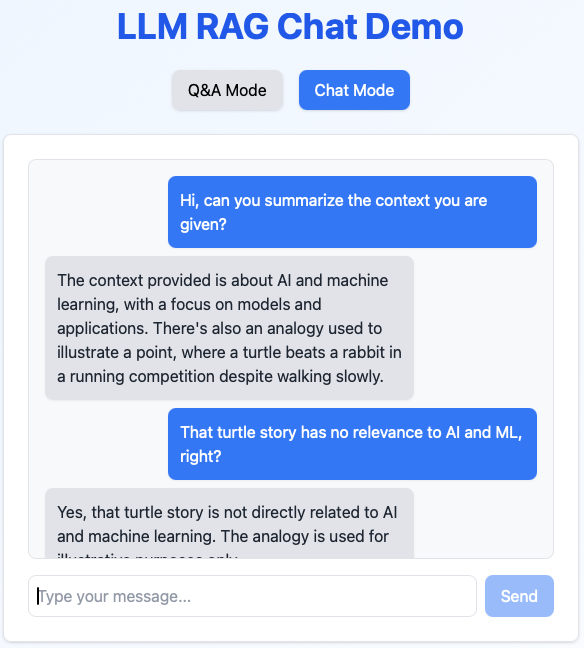
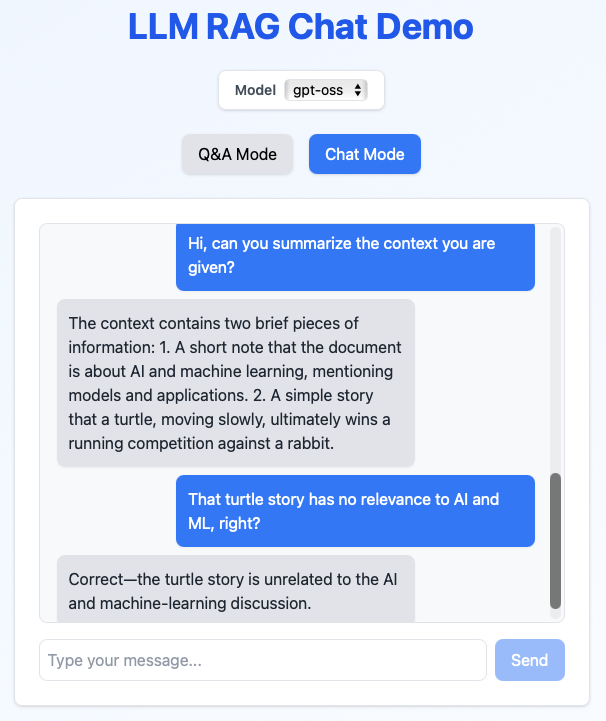
add model section UI (mistral, gpt-oss)

diff --git a/frontend/src/App.tsx b/frontend/src/App.tsx
@@ -1,13 +1,32 @@
 import { useState } from 'react';
+import { DEFAULT_MODEL, MODEL_OPTIONS, type ModelId } from './modelOptions';
 import AskComponent from './AskComponent';
 import ChatComponent from './ChatComponent';
 
 export default function App() {
   const [mode, setMode] = useState<'ask' | 'chat'>('ask');
+  const [model, setModel] = useState<ModelId>(DEFAULT_MODEL);
 
   return (
     <div className="min-h-screen flex flex-col items-center bg-gradient-to-br from-blue-50 to-white p-6">
       <h1 className="text-4xl font-bold mb-6 text-blue-600">LLM RAG Chat Demo</h1>
+
+      <div className="flex gap-4 mb-6">
+        <label className="flex items-center gap-2 bg-white border rounded-lg shadow px-4 py-2">
+          <span className="text-sm font-semibold text-gray-600">Model</span>
+          <select
+            className="border rounded px-2 py-1 text-sm focus:outline-none focus:ring-2 focus:ring-blue-300"
+            value={model}
+            onChange={(event) => setModel(event.target.value as ModelId)}
+          >
+            {MODEL_OPTIONS.map((option) => (
+              <option key={option} value={option}>
+                {option}
+              </option>
+            ))}
+          </select>
+        </label>
+      </div>
 
       <div className="flex gap-4 mb-6">
         <button
@@ -24,8 +43,8 @@ export default function App() {
         </button>
       </div>
 
-      {mode === 'ask' && <AskComponent />}
-      {mode === 'chat' && <ChatComponent />}
+      {mode === 'ask' && <AskComponent model={model} />}
+      {mode === 'chat' && <ChatComponent model={model} />}
     </div>
   );
 }

diff --git a/frontend/src/ChatComponent.tsx b/frontend/src/ChatComponent.tsx
@@ -1,5 +1,6 @@
 import { useState, useRef, useEffect } from 'react';
 import axios from 'axios';
+import type { ModelId } from './modelOptions';
 
 type Message = {
   role: 'user' | 'assistant';
@@ -11,7 +12,11 @@ const createMessage = (role: 'user' | 'assistant', content: string): Message => 
   content
 });
 
-export default function ChatComponent() {
+type ChatProps = {
+  model: ModelId;
+};
+
+export default function ChatComponent({ model }: ChatProps) {
   const [messages, setMessages] = useState<Message[]>([]);
   const [input, setInput] = useState('');
   const [loading, setLoading] = useState(false);
@@ -33,7 +38,7 @@ export default function ChatComponent() {
     setLoading(true);
 
     try {
-      const res = await axios.post('http://localhost:8000/chat', { messages: newMessages });
+      const res = await axios.post('http://localhost:8000/chat', { messages: newMessages, model });
       setMessages([...newMessages, createMessage('assistant', res.data.answer)]);
     } catch {
       setMessages([...newMessages, createMessage('assistant', 'Error contacting backend.')]);

diff --git a/frontend/src/AskComponent.tsx b/frontend/src/AskComponent.tsx
@@ -1,7 +1,12 @@
 import { useState } from 'react';
 import axios from 'axios';
+import type { ModelId } from './modelOptions';
 
-export default function AskComponent() {
+type AskProps = {
+  model: ModelId;
+};
+
+export default function AskComponent({ model }: AskProps) {
   const [question, setQuestion] = useState('');
   const [answer, setAnswer] = useState('');
   const [loading, setLoading] = useState(false);
@@ -14,7 +19,7 @@ export default function AskComponent() {
     setAnswer('');
 
     try {
-      const res = await axios.post('http://localhost:8000/ask', { question });
+      const res = await axios.post('http://localhost:8000/ask', { question, model });
       setAnswer(res.data.answer);
     } catch {
       setAnswer('⚠ Error contacting backend.');

diff --git a/frontend/src/modelOptions.ts b/frontend/src/modelOptions.ts
@@ -1,0 +1,3 @@
+export type ModelId = 'mistral' | 'gpt-oss';
+export const MODEL_OPTIONS: ModelId[] = ['mistral', 'gpt-oss'];
+export const DEFAULT_MODEL: ModelId = 'mistral';

diff --git a/backend/ask_handler.py b/backend/ask_handler.py
@@ -44,25 +44,10 @@ NOTES:
 
 """
 
-import os
+from functools import lru_cache
 from langchain_ollama.llms import OllamaLLM
 from schemas import AskRequest
 from rag_index import rag_index
-
-
-# ----------------------------------------------------------------------------------------------------
-# Create the Ollama LLM
-# ----------------------------------------------------------------------------------------------------
-llm = OllamaLLM(model="mistral")
-
-
-# ----------------------------------------------------------------------------------------------------
-# Build the RAG query engine ONCE at startup
-# ----------------------------------------------------------------------------------------------------
-ask_engine = rag_index.as_query_engine(
-    llm=llm,
-    response_mode="compact",  # or "simple"
-)
 
 
 # ----------------------------------------------------------------------------------------------------
@@ -72,5 +57,26 @@ def process_ask(request: AskRequest) -> str:
     """
     Classic single-turn RAG: user asks one question, no history.
     """
+    ask_engine = _get_query_engine(request.model)
     response = ask_engine.query(request.question)
     return response.response
+
+
+# ----------------------------------------------------------------------------------------------------
+# LRU cache to reuse LLM
+# ----------------------------------------------------------------------------------------------------
+@lru_cache(maxsize=2)
+def _get_llm(model_name: str) -> OllamaLLM:
+    return OllamaLLM(model=model_name)
+
+
+# ----------------------------------------------------------------------------------------------------
+# LRU cache to reuse query engine instances
+# ----------------------------------------------------------------------------------------------------
+@lru_cache(maxsize=2)
+def _get_query_engine(model_name: str):
+    llm = _get_llm(model_name)
+    return rag_index.as_query_engine(
+        llm=_get_llm(model_name),
+        response_mode="compact",
+    )

diff --git a/backend/chat_handler.py b/backend/chat_handler.py
@@ -1,3 +1,4 @@
+from functools import lru_cache
 from langchain_ollama.chat_models import ChatOllama
 from llama_index.core.chat_engine import ContextChatEngine
 from llama_index.core.chat_engine.types import ChatMessage
@@ -50,9 +51,30 @@ def process_chat(request: ChatRequest) -> str:
     # Convert messages to ChatMessage format
     messages_for_history = [ChatMessage(role=m.role, content=m.content) for m in request.messages]
 
+    # Retrieve ChatEngine instance (cached)
+    chat_engine = _get_chat_engine(request.model)
+
     # Call LlamaIndex ChatEngine
     response = chat_engine.chat(
         message=last_user_message,
         chat_history=[INSTRUCTION_MESSAGE, *messages_for_history],
     )
     return response.response
+
+
+# ----------------------------------------------------------------------------------------------------
+# LRU cache to reuse LLM
+# ----------------------------------------------------------------------------------------------------
+@lru_cache(maxsize=4)
+def _get_langchain_llm(model_name: str) -> LangChainLLM:
+    return LangChainLLM(ChatOllama(model=model_name, temperature=0.0))
+
+# ----------------------------------------------------------------------------------------------------
+# LRU cache to reuse chat engine instances
+# ----------------------------------------------------------------------------------------------------
+@lru_cache(maxsize=4)
+def _get_chat_engine(model_name: str) -> ContextChatEngine:
+    return ContextChatEngine.from_defaults(
+        retriever=rag_index.as_retriever(),
+        llm=_get_langchain_llm(model_name),
+    )

diff --git a/backend/schemas.py b/backend/schemas.py
@@ -1,9 +1,16 @@
+from enum import StrEnum
 from pydantic import BaseModel
-from typing import List
+
+
+class ModelId(StrEnum):
+    MISTRAL = "mistral"
+    GPT_OSS = "gpt-oss"
+    DEFAULT = "mistral"
 
 
 class AskRequest(BaseModel):
     question: str
+    model: ModelId = ModelId.DEFAULT
 
 
 class ChatMessage(BaseModel):
@@ -12,4 +19,5 @@ class ChatMessage(BaseModel):
 
 
 class ChatRequest(BaseModel):
-    messages: List[ChatMessage]
+    messages: list[ChatMessage]
+    model: ModelId = ModelId.DEFAULT

diff --git a/README.md b/README.md
@@ -1,10 +1,24 @@
 # LLM RAG Chat Demo
 
-A full-stack demo of Retrieval-Augmented Generation (RAG) chat powered by LlamaIndex, LangChain, FastAPI, and React (TypeScript).
+## Overview
+
+This project is a **full-stack Retrieval-Augmented Generation (RAG) chat demo** built to showcase how large language models can answer questions grounded in external knowledge.
+
+**Tech Stack:**
+
+* **Frontend:** React (TypeScript)
+* **Backend:** FastAPI (Python)
+* **LLM:** Models served locally via Ollama (Mistral, GPT-OSS)
+* **Embeddings:** Hugging Face transformer model via HuggingFaceEmbedding
+* **Vector Database:** LlamaIndex SimpleVectorStore (in-memory, managed through VectorStoreIndex)
+* **Frameworks:** LangChain, LlamaIndex
+
+**How it works:**
+The application ingests documents, converts them into vector embeddings, and stores them in a FAISS index. When a user asks a question, the system retrieves the most relevant text chunks and passes them — along with the query — to the Mistral model to generate accurate, context-aware responses.
 
 ![](images/chat-mode.png)
 
-This project demonstrates how to build a chatbot that retrieves relevant document context from a vector database and generates coherent answers using an LLM.
+This demo illustrates the core workflow behind modern RAG systems: **document retrieval + LLM reasoning**, wrapped in a simple web interface.
 
 ## Installation
 
@@ -56,7 +70,12 @@ Install mistral
 
 ```bash
 ollama pull mistral
+ollama pull gpt-oss
 ```
+
+`ollama list` to verify the installation.
+
+`sudo systemctl restart ollama` if running as a service, or `ollama restart` if running it manually.
 
 ## Run the Backend
 
@@ -73,8 +92,18 @@ For testing the backend, you can open `http://localhost:8000/docs` to interact w
 Install Node + npm (if not already installed)
 
 ```bash
-curl -fsSL https://deb.nodesource.com/setup_20.x | sudo -E bash -
-sudo apt-get install -y nodejs
+# Install nvm (Node Version Manager)
+curl -o- https://raw.githubusercontent.com/nvm-sh/nvm/master/install.sh | bash
+
+# Load nvm into your shell (or restart the terminal)
+source ~/.bashrc
+
+# Install the latest LTS version of Node.js (includes npm)
+nvm install --lts
+
+# Verify installation
+node -v
+npm -v
 ```
 
 Navigate to the `frontend` directory and install the required packages:
